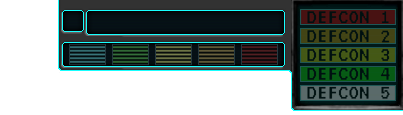
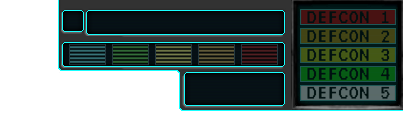
v0.026 	modified:   Main.py 	modified:   MenuManager.py 	modified:   PygameManager.py 	modified:   __pycache__/CountriesManager.cpython-311.pyc 	modified:   __pycache__/MenuManager.cpython-311.pyc 	modified:   __pycache__/PygameManager.cpython-311.pyc 	new file:   gfx/Interface/game_HUD/bottom_HUD.p

Changed region(s): [[0.4169, 0.6, 0.7444, 0.9652]]

diff --git a/MenuManager.py b/MenuManager.py
@@ -1941,9 +1941,9 @@ class Laws_Group_Menu:
 
 
 class Game_Screen:
-	def __init__(self, screen_width, screen_height, pygame, generic_hover_over_button_sound, generic_click_button_sound, top_bar_right_background, top_bar_game_speed_indicator,
+	def __init__(self, screen_width, screen_height, pygame, clock, generic_hover_over_button_sound, generic_click_button_sound, top_bar_right_background, top_bar_game_speed_indicator,
 			top_bar_defcon_level, top_bar_left_background, top_bar_flag_overlay, top_bar_flag_overlay_hovering_over, country_overview, popularity_circle_overlay, earth_daymap, earth_nightmap, 
-			progressbar, progressbar_vertical, progressbar_small):
+			earth_political_map, earth_political_map_filled, progressbar, progressbar_vertical, progressbar_small, bottom_HUD):
 
 		reference_screen_size_x = 1920
 		reference_screen_size_y = 1080
@@ -1960,16 +1960,22 @@ class Game_Screen:
 		self.Country_Overview = Country_Overview(self.factor_x, self.factor_y, pygame, top_bar_left_background, top_bar_flag_overlay, top_bar_flag_overlay_hovering_over,
 			country_overview, popularity_circle_overlay, generic_hover_over_button_sound, progressbar, progressbar_vertical, progressbar_small)
 		
-		self.Clock_UI = Clock_UI(self.factor_x, self.factor_y, screen_width, screen_height, pygame, top_bar_right_background, top_bar_game_speed_indicator, top_bar_defcon_level)
+		self.Clock_UI = Clock_UI(self.factor_x, self.factor_y, screen_width, screen_height, pygame, clock, top_bar_right_background, top_bar_game_speed_indicator, top_bar_defcon_level)
 
-		self.Earth_Map = Earth_Map(self.factor_x, self.factor_y, screen_width, screen_height, earth_daymap, earth_nightmap, self.Clock_UI)
+		self.Bottom_HUD = Bottom_HUD(self.factor_x, self.factor_y, screen_width, screen_height, pygame, bottom_HUD)
+
+		self.Earth_Map = Earth_Map(self.factor_x, self.factor_y, screen_width, screen_height, earth_daymap, earth_nightmap, earth_political_map, earth_political_map_filled, self.Clock_UI)
 	
-	def get_button_by_interaction(self, mouse_rect):
-		button = self.Country_Overview.get_button_by_interaction(mouse_rect)
-		return button
+	def get_button_by_interaction(self, mouse_rect, index):
+		if index == 0:
+			button = self.Country_Overview.get_button_by_interaction(mouse_rect)
+			return button
+		elif index == 1:
+			button = self.Bottom_HUD.get_button_by_interaction(mouse_rect)
+			return button
 
 	def get_clicked_button(self, mouse_rect):
-		clicked_button = self.get_button_by_interaction(mouse_rect)
+		clicked_button = self.get_button_by_interaction(mouse_rect, 0)
 		
 		if clicked_button != None:
 			if clicked_button == "country_viewer":
@@ -1977,10 +1983,17 @@ class Game_Screen:
 				self.Country_Overview.is_top_bar_country_viewer_open = not self.Country_Overview.is_top_bar_country_viewer_open
 			self.generic_hover_over_button_sound.fadeout(100)
 			self.generic_click_button_sound.play()
-			return clicked_button	
+			return clicked_button
+
+		clicked_button = self.get_button_by_interaction(mouse_rect, 1)
+
+		if clicked_button != None:
+			self.Earth_Map.map_overlay_index = clicked_button
+			self.Earth_Map.update_map()
+			return clicked_button
 
 	def get_hovered_button(self, mouse_rect):
-		hovered_button = self.get_button_by_interaction(mouse_rect)
+		hovered_button = self.get_button_by_interaction(mouse_rect, 0)
 		if hovered_button != None:
 			if self.last_hovered_button != hovered_button:
 				self.generic_hover_over_button_sound.play()
@@ -1997,6 +2010,7 @@ class Game_Screen:
 		self.Earth_Map.draw(screen)		
 		self.Country_Overview.draw(screen, mouse_rect)
 		self.Clock_UI.draw(screen)
+		self.Bottom_HUD.draw(screen)
 
 class Country_Overview:
 	def __init__(self, factor_x, factor_y, pygame, top_bar_left_background, top_bar_flag_overlay, top_bar_flag_overlay_hovering_over, country_overview, popularity_circle_overlay,
@@ -2839,13 +2853,15 @@ class Country_Overview:
 		else:
 			pass	
 class Clock_UI:
-	def __init__(self, factor_x, factor_y, screen_width, screen_height, pygame, top_bar_right_background, top_bar_game_speed_indicator, top_bar_defcon_level):
+	def __init__(self, factor_x, factor_y, screen_width, screen_height, pygame, clock, top_bar_right_background, top_bar_game_speed_indicator, top_bar_defcon_level):
 
 		self.factor_x, self.factor_y = factor_x, factor_y	
 		self.screen_width = screen_width 
 		self.screen_height = screen_height
 
 		self.pygame = pygame
+
+		self.clock = clock
 
 		self.top_bar_right_background = pygame.transform.smoothscale_by(top_bar_right_background, (self.factor_x, self.factor_y))
 		self.top_bar_game_speed_indicator = pygame.transform.smoothscale_by(top_bar_game_speed_indicator, (self.factor_x, self.factor_y))
@@ -2948,9 +2964,46 @@ class Clock_UI:
 		screen.blit(hour_date_render, (date_x_position + (-2 + max(0, 38 - hour_date_render.get_width()))* self.factor_x, date_y_position))
 		screen.blit(day_date_render, (date_x_position + (48 + max(0, 38 * self.factor_x - day_date_render.get_width()))* self.factor_x, date_y_position))
 		screen.blit(month_date_render, (date_x_position + (86 + max(0, 41 * self.factor_x - month_date_render.get_width()))* self.factor_x, date_y_position))
-		screen.blit(year_date_render, (date_x_position + (135 + max(0, 49 * self.factor_x - year_date_render.get_width()))* self.factor_x, date_y_position))		
+		screen.blit(year_date_render, (date_x_position + (135 + max(0, 49 * self.factor_x - year_date_render.get_width()))* self.factor_x, date_y_position))	
+
+		# FPS
+		FPS_render = self.medium_scalable_font.render(' FPS:\n' + str(round(self.clock.get_fps(), 2)), True, (255, 255, 255))
+		screen.blit(FPS_render, (self.screen_width - 190 * self.factor_x, 75 * self.factor_y))
+class Bottom_HUD:
+	def __init__(self, factor_x, factor_y, screen_width, screen_height, pygame, bottom_HUD):
+		self.factor_x, self.factor_y = factor_x, factor_y	
+		self.screen_width = screen_width 
+		self.screen_height = screen_height
+
+		self.pygame = pygame
+
+		self.bottom_HUD = pygame.transform.smoothscale(bottom_HUD, (self.screen_width, bottom_HUD.get_height() * self.factor_y))
+
+		self.selcted_map_overlay = 1
+
+		offset_y = 	self.screen_height - self.bottom_HUD.get_height()
+
+		self.map_overlay_1 = GenericUtilitys.Button(1776 * self.factor_x, 12 * self.factor_y + offset_y, 59 * self.factor_x, 43 * self.factor_y)
+		self.map_overlay_2 = GenericUtilitys.Button(1845 * self.factor_x, 12 * self.factor_y + offset_y, 59 * self.factor_x, 43 * self.factor_y)
+
+	def get_button_by_interaction(self, mouse_rect):
+		if self.map_overlay_1.rect.colliderect(mouse_rect):
+			self.selcted_map_overlay = 1
+			return 1
+		elif self.map_overlay_2.rect.colliderect(mouse_rect):
+			self.selcted_map_overlay = 2
+			return 2
+		
+		return None
+
+	def draw(self, screen):		
+		screen.blit(self.bottom_HUD, (0, self.screen_height - self.bottom_HUD.get_height()))
+
+		self.pygame.draw.rect(screen, (255, 255, 255), getattr(self, 'map_overlay_'+str(self.selcted_map_overlay)).rect, 2)	
+		
+
 class Earth_Map:
-	def __init__(self, factor_x, factor_y, screen_width, screen_height, earth_daymap, earth_nightmap, Clock_UI):
+	def __init__(self, factor_x, factor_y, screen_width, screen_height, earth_daymap, earth_nightmap, earth_political_map, earth_political_map_filled, Clock_UI):
 		self.factor_x = factor_x
 		self.factor_y = factor_y
 
@@ -2962,11 +3015,17 @@ class Earth_Map:
 
 		self.Clock_UI = Clock_UI
 
+		self.map_overlay_index = 1
+
 		self.source_earth_daymap = earth_daymap
 		self.source_earth_nightmap = earth_nightmap
+		self.source_earth_political_map = earth_political_map
+		self.source_earth_political_map_filled = earth_political_map_filled
 
 		self.earth_daymap = earth_daymap.copy()
 		self.earth_nightmap = earth_nightmap.copy()
+		self.earth_political_map = earth_political_map.copy()
+		self.earth_political_map_filled = earth_political_map_filled.copy()
 
 		self.night_strips = self.calculate_night_strips(interval_minutes = 1)
 
@@ -2977,6 +3036,8 @@ class Earth_Map:
 
 		self.map_position = [0, 0]
 		self.offset_y = 0
+
+		self.update_map()
 
 	def calculate_night_strips(self, interval_minutes):
 		night_strips = {}
@@ -3006,10 +3067,7 @@ class Earth_Map:
 				self.zoom_factor = 1
 
 			if self.last_zoom_factor != self.zoom_factor:
-
-
-				self.earth_daymap = pygame.transform.scale_by(self.source_earth_daymap, (self.zoom_factor))
-				self.earth_nightmap = pygame.transform.scale_by(self.source_earth_nightmap, (self.zoom_factor))
+				self.update_map()
 				
 				# DO LATER DO LATER DO LATER DO LATER DO LATER DO LATER DO LATER DO LATER DO LATER DO LATER DO LATER DO LATER DO LATER DO LATER DO LATER
 				# DO LATER DO LATER DO LATER DO LATER DO LATER DO LATER DO LATER DO LATER DO LATER DO LATER DO LATER DO LATER DO LATER DO LATER DO LATER
@@ -3019,7 +3077,25 @@ class Earth_Map:
 				if zoom_type == 'zoom_in':
 					pass
 
-			self.last_zoom_factor = self.zoom_factor	
+			self.last_zoom_factor = self.zoom_factor
+
+	def update_map(self):
+		if self.map_overlay_index != None:
+			self.earth_nightmap = pygame.transform.scale_by(self.source_earth_nightmap, (self.zoom_factor))
+			
+			result_surface = pygame.Surface((self.earth_nightmap.get_width(), self.earth_nightmap.get_height()), pygame.SRCALPHA)
+
+			result_surface.blit(pygame.transform.scale_by(self.source_earth_daymap, (self.zoom_factor)), (0, 0))
+
+			if self.map_overlay_index == 1:
+				self.earth_political_map = pygame.transform.scale_by(self.source_earth_political_map, (self.zoom_factor))	
+				result_surface.blit(self.earth_political_map, (0, 0))
+			elif self.map_overlay_index == 2:
+				self.earth_political_map_filled = pygame.transform.scale_by(self.source_earth_political_map_filled, (self.zoom_factor))	
+				result_surface.blit(self.earth_political_map_filled, (0, 0))
+
+			self.earth_daymap = result_surface.convert_alpha().copy()
+			del result_surface			
 
 	def draw(self, screen):
 		self.screen_sized_map_surface.fill((0, 0, 0, 0), (0, 0, self.screen_width, self.screen_height))

diff --git a/Main.py b/Main.py
@@ -100,8 +100,10 @@ class Main:
 
 		self.map_folder = os.path.join(self.exe_folder, 'map')
 
-		self.earth_daymap 		= self.pygame.image.load(os.path.join(self.map_folder, 'earth_daymap.jpg')).convert_alpha()
-		self.earth_nightmap 	= self.pygame.image.load(os.path.join(self.map_folder, 'earth_nightmap.png')).convert_alpha()	
+		self.earth_daymap 						= self.pygame.image.load(os.path.join(self.map_folder, 'earth_daymap.png')).convert_alpha()
+		self.earth_nightmap 					= self.pygame.image.load(os.path.join(self.map_folder, 'earth_nightmap.png')).convert_alpha()	
+		self.earth_political_map 				= self.pygame.image.load(os.path.join(self.map_folder, 'earth_political_map.png')).convert_alpha()
+		self.earth_political_map_filled 		= self.pygame.image.load(os.path.join(self.map_folder, 'earth_political_map_filled.png')).convert_alpha()
 
 
 		self.gfx_folder = os.path.join(self.exe_folder, 'gfx')
@@ -187,8 +189,10 @@ class Main:
 		self.progressbar_huge 						= self.pygame.image.load(os.path.join(self.game_HUD_folder, 'progressbar_huge.png')).convert_alpha()	
 		self.progressbar 							= self.pygame.image.load(os.path.join(self.game_HUD_folder, 'progressbar.png')).convert_alpha()	
 		self.progressbar_vertical 					= self.pygame.image.load(os.path.join(self.game_HUD_folder, 'progressbar_vertical.png')).convert_alpha()	
-		self.progressbar_small 						= self.pygame.image.load(os.path.join(self.game_HUD_folder, 'progressbar_small.png')).convert_alpha()		
+		self.progressbar_small 						= self.pygame.image.load(os.path.join(self.game_HUD_folder, 'progressbar_small.png')).convert_alpha()	
+		self.bottom_HUD 							= self.pygame.image.load(os.path.join(self.game_HUD_folder, 'bottom_HUD.png')).convert_alpha()	
 		
+
 		self.ideas_folder = os.path.join(self.interface_folder, 'ideas')
 		
 		self.national_spirits_folder = os.path.join(self.ideas_folder, 'national_spirits')
@@ -626,10 +630,10 @@ your shoulders.
 				self.hovered_red_button_menu_image, self.Options_Menu)
 		
 
-		self.Game_Screen = MenuManager.Game_Screen(self.screen_width, self.screen_height, self.pygame, self.Sounds_Manager.generic_hover_over_button_sound, self.Sounds_Manager.generic_click_button_sound, 
+		self.Game_Screen = MenuManager.Game_Screen(self.screen_width, self.screen_height, self.pygame, self.clock, self.Sounds_Manager.generic_hover_over_button_sound, self.Sounds_Manager.generic_click_button_sound, 
 			self.top_bar_right_background, self.top_bar_game_speed_indicator, self.top_bar_defcon_levels, self.top_bar_left_background, self.top_bar_flag_overlay,
-			self.top_bar_flag_overlay_hovering_over, self.country_overview, self.popularity_circle_overlay, self.earth_daymap, self.earth_nightmap, self.progressbar, self.progressbar_vertical,
-			self.progressbar_small)
+			self.top_bar_flag_overlay_hovering_over, self.country_overview, self.popularity_circle_overlay, self.earth_daymap, self.earth_nightmap, self.earth_political_map, self.earth_political_map_filled,
+			self.progressbar, self.progressbar_vertical, self.progressbar_small, self.bottom_HUD)
 
 
 		self.Screen_Manager = ScreenManager.Screen(self.pygame, self.display, self.screen, self.surface_alfa, self.Main_Menu, self.Country_Selection_Screen,
@@ -1088,7 +1092,7 @@ your shoulders.
 				self.Country_Selection_Screen.music_player()
 
 
-			clock.tick(30)
+			clock.tick(144)
 
 		self.pygame.quit()
 

diff --git a/PygameManager.py b/PygameManager.py
@@ -34,7 +34,7 @@ class Pygame:
 		pygame.time.set_timer(self.date_tick, 10) # 100 ticks per second
 		pygame.time.set_timer(self.FPS_update, 50)
 		pygame.time.set_timer(self.key_delay, 42)
-		pygame.time.set_timer(self.screen_update, 40) # 25 fps
+		pygame.time.set_timer(self.screen_update, 50) # 20 fps
 
 		pygame.mixer.init(buffer=8192) 
 		pygame.K_1
